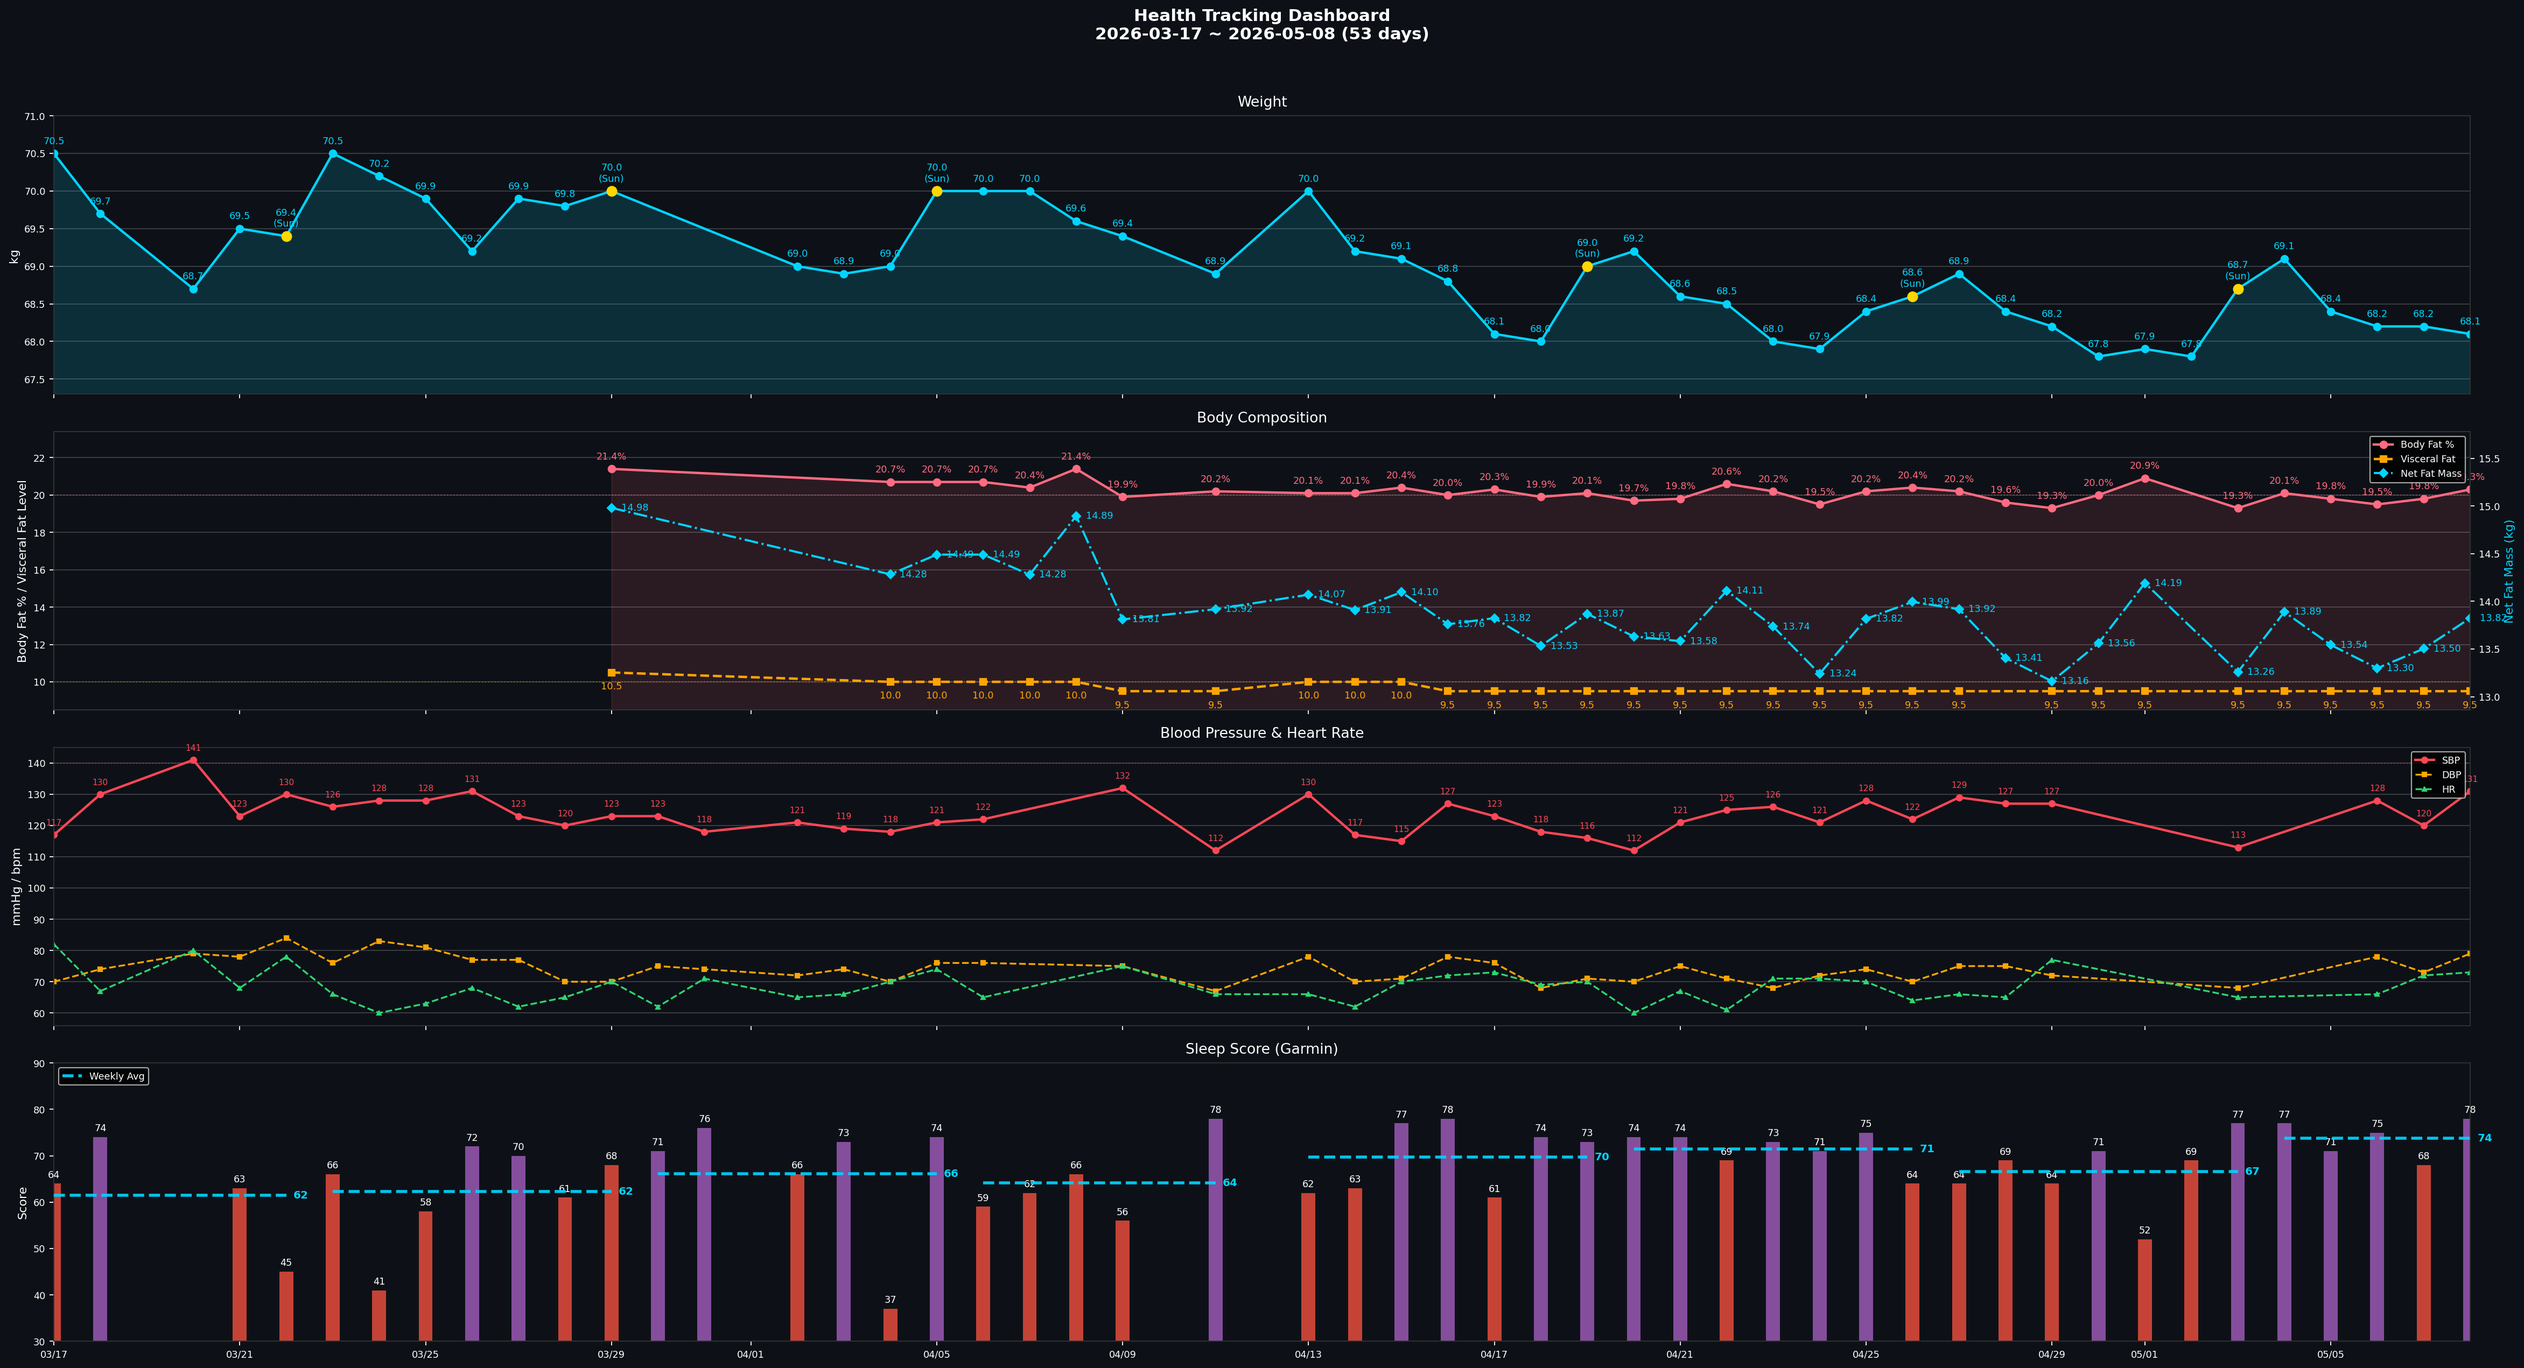
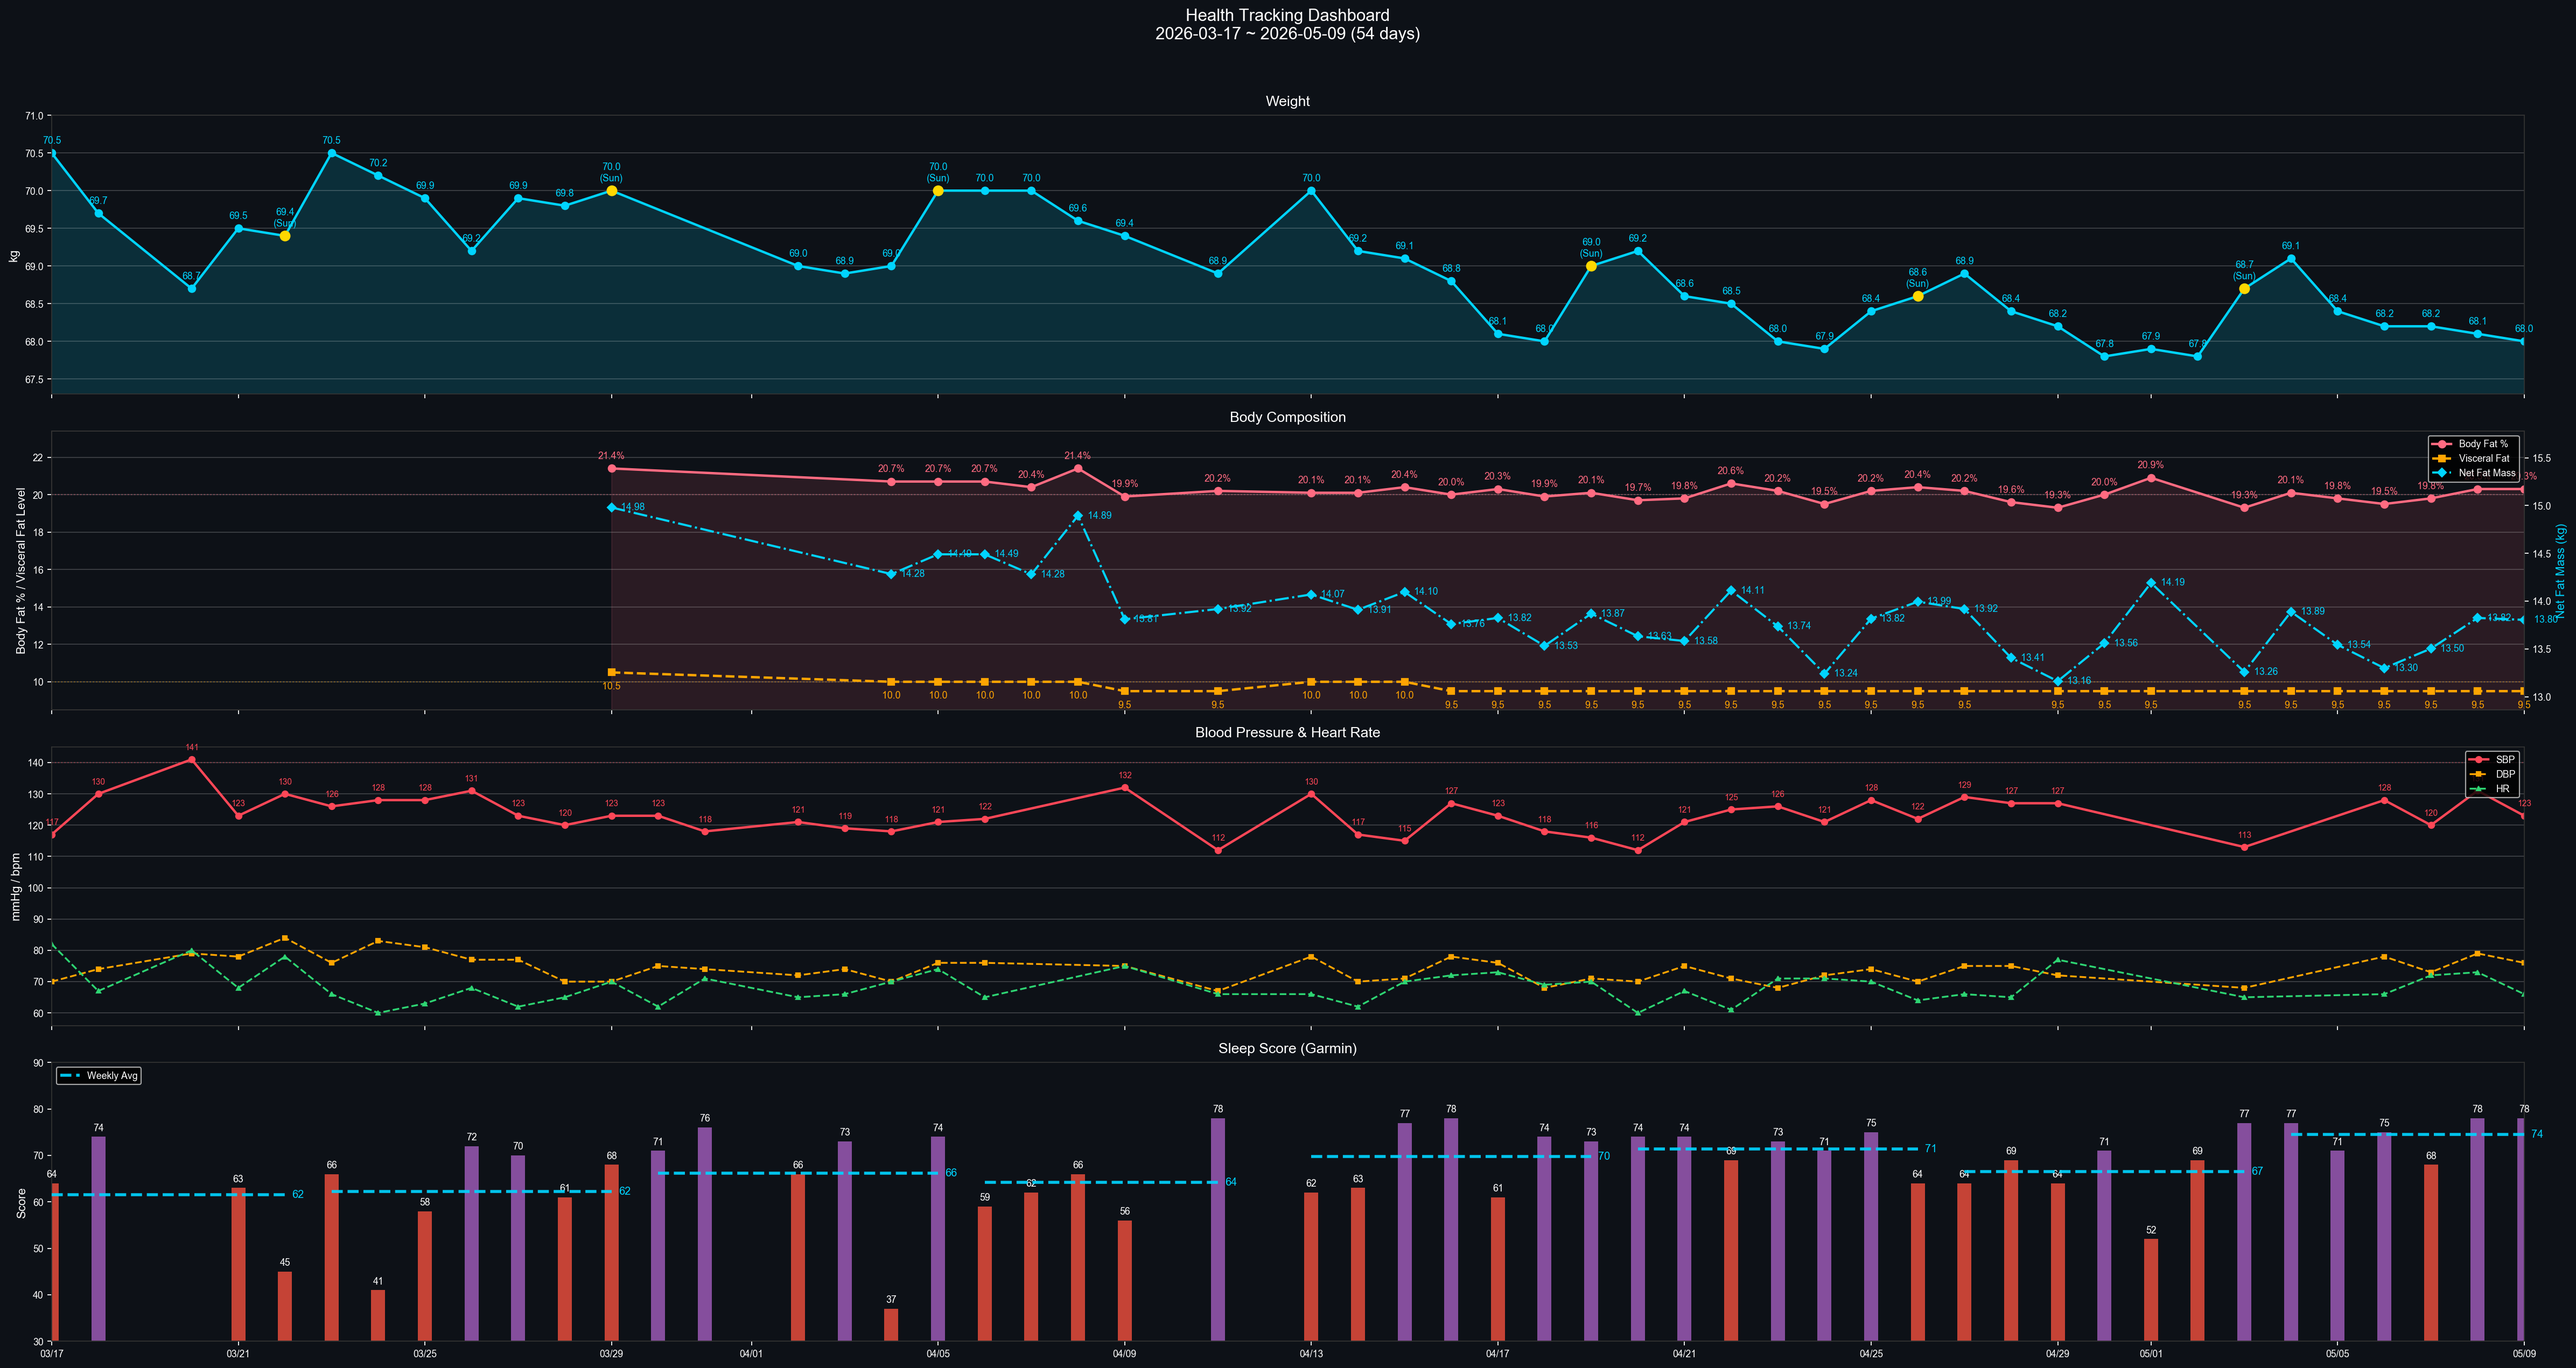
daily health log 2026-05-09

diff --git a/data.js b/data.js
@@ -9,19 +9,19 @@ window.HC_DATA = {
     lede:    { en: "Sleep, BP, lipids, uric acid — one shared metabolic root. Lifestyle stacks first; medication only after lifestyle plateaus.",
                zh: "睡眠、血壓、血脂、尿酸——共享同一個代謝根源。生活方式介入優先，等到效果平台期再考慮藥物。" },
     progressLbl: { en: "Weight progress · 70 → 65 kg", zh: "體重進度 · 70 → 65 公斤" },
-    progressMeta: { en: "Day 53 · 67.8 kg · Sat official (5/2)", zh: "第 53 天 · 67.8 公斤 · 週六正式（5/2）" },
-    startDate: { en: "Start date · Mar 17, 2026 · Last sync 5/8", zh: "起始日期 · 2026 年 3 月 17 日 · 最後同步 5/8" },
+    progressMeta: { en: "Day 54 · 68.0 kg · Sat official (5/9)", zh: "第 54 天 · 68.0 公斤 · 週六正式（5/9）" },
+    startDate: { en: "Start date · Mar 17, 2026 · Last sync 5/9", zh: "起始日期 · 2026 年 3 月 17 日 · 最後同步 5/9" },
     startWeight: 70,
     targetWeight: 65,
-    currentWeight: 67.8,
-    currentWeightDate: "5/2 Sat official",
+    currentWeight: 68.0,
+    currentWeightDate: "5/9 Sat official",
   },
 
   markers: [
     {
       sys: "heart", name: { en: "Blood Pressure", zh: "血壓" },
       val: "124/72", unit: "mmHg",
-      delta: { en: "W18 weekly avg (4 days) · target met (<130) · last 131/79 (5/8)", zh: "W18 週均（4 天）· 已達標 (<130) · 最新 131/79 (5/8)" },
+      delta: { en: "W18 weekly avg (4 days) · target met (<130) · last 123/76 (5/9)", zh: "W18 週均（4 天）· 已達標 (<130) · 最新 123/76 (5/9)" },
       cadence: { en: "Daily · weekly avg", zh: "每日 · 週均" },
       status: "ok",
     },
@@ -34,8 +34,8 @@ window.HC_DATA = {
     },
     {
       sys: "weight", name: { en: "Weight", zh: "體重" },
-      val: "67.8", unit: "kg",
-      delta: { en: "5/2 Sat official · auto-synced", zh: "5/2 週六正式 · 自動同步" },
+      val: "68.0", unit: "kg",
+      delta: { en: "5/9 Sat official · auto-synced", zh: "5/9 週六正式 · 自動同步" },
       cadence: { en: "Daily · Sat official", zh: "每日 · 週六正式" },
       status: "ok",
     },
@@ -820,14 +820,14 @@ window.HC_DATA = {
   tracker: {
     // [SBP, DBP] — gaps filled with prior reading
     bp: [
-      [128,74], [122,70], [129,75], [127,75], [127,72], [127,72], [127,72], [127,72], [113,68], [113,68], [113,68], [128,78], [120,73], [131,79],
+      [122,70], [129,75], [127,75], [127,72], [127,72], [127,72], [127,72], [113,68], [113,68], [113,68], [128,78], [120,73], [131,79], [123,76],
     ],
     // 4/21–5/4 daily weight (kg)
-    weight: [68.4, 68.6, 68.9, 68.4, 68.2, 67.8, 67.9, 67.8, 68.7, 69.1, 68.4, 68.2, 68.2, 68.1],
+    weight: [68.6, 68.9, 68.4, 68.2, 67.8, 67.9, 67.8, 68.7, 69.1, 68.4, 68.2, 68.2, 68.1, 68],
     // Garmin Sleep Score
-    sleep:  [75, 64, 64, 69, 64, 71, 52, 69, 77, 77, 71, 75, 68, 78],
+    sleep:  [64, 64, 69, 64, 71, 52, 69, 77, 77, 71, 75, 68, 78, 78],
     // Body Battery waking
-    bb:     [66, 60, 57, 57, 58, 51, 47, 41, 54, 49, 47, 56, 47, 37],
+    bb:     [60, 57, 57, 58, 51, 47, 41, 54, 49, 47, 56, 47, 37, 48],
   },
 
   // ===== Running — started 2026-04-26 =====

diff --git a/reviews/daily/2026-05-09.md b/reviews/daily/2026-05-09.md
@@ -1,0 +1,88 @@
+# 晨間健康紀錄 — 2026-05-09
+
+*3 分鐘。起床後立即完成。記錄，不分析。*
+
+---
+
+## 體重
+
+**今日：68.0 kg**
+**體脂率：20.3 %**
+**內臟脂肪等級：9.5**
+
+*每週六早晨為正式紀錄（排尿後、進食前；連 5 個工作日後、週末大餐前的真實低點）。其他日可選填。*
+
+---
+
+## 血壓（晨間）
+
+*起床後 1 小時內，上完廁所、進食前。坐下安靜 5 分鐘，連量兩次取第二次。*
+
+| 次數 | 收縮壓 | 舒張壓 | 心率 |
+|------|--------|--------|------|
+| 第一次 | — | — | — |
+| 第二次 | 123 | 76 | 66 |
+
+---
+
+## 睡眠狀態
+
+**實際就寢：** 22:09
+**實際起床：** 04:49
+**總時長：** 6h 40m（深眠 104 分｜REM 88 分）
+**中途醒來：** 無（0 次）
+**Garmin Sleep Score：** 78 / 100
+**Garmin Body Battery 起床值：** 48
+**主觀恢復感：** 3 / 5（1=極度疲憊, 5=精力充沛）
+
+**Garmin RHR：** 60 bpm｜**日均壓力：** 23｜**昨日步數：** 59
+
+### SpO2 / OSA 監測
+
+- 睡眠平均 96.0%｜瞬間最低 85%
+- T90 ≈ **7.8%**（< 90% 累計 31 分 / 400 分）
+- Desat events: 4 段
+
+| 時段 | 長度 | 最低 | 平均 | 分級 |
+|------|------|------|------|------|
+| 00:25–00:30 | 6 分 | 85% | 87% | 🟡 紅旗 |
+| 03:44–03:44 | 1 分 | 89% | 89% | 🟢 邊緣 |
+| 03:47–03:54 | 8 分 | 87% | 87% | 🟡 紅旗 |
+| 04:25–04:40 | **16 分** | 86% | 87% | 🔴 重度累積缺氧（>15 分） |
+
+**體位備註：** 04:25 那段 16 分鐘 desat 為準備起床時從側睡翻成仰睡所致 — 仰睡舌根後墜會加重 OSA，屬體位性誘發，非自然睡眠時段的代表性事件。
+
+圖表：`reviews/daily/spo2/spo2_desat_2026-05-09.png`
+
+*Sleep Score < 65 或 Body Battery < 50 連續三天 → 重新檢視睡眠修復方案。*
+
+---
+
+## 昨日回顧
+
+**實際飲水量：** 2.5 L（目標 ≥ 2.5L；高尿酸最佳 2.8–3.0L；17:00 前完成 60-70%）
+
+---
+
+## 身體信號
+
+*任何張力、疼痛、疲勞、異常 — 或「清」。記位置、性質、強度。*
+
+| 部位 | 性質 | 強度 (0-10) |
+|------|------|-------------|
+| 清 | — | — |
+
+---
+
+## 今日計畫速記
+
+- [ ] 飲水目標：2.5 L（建議 2.5–3.0L，17:00 前完成主要量）
+- [ ] 補充品：洛神花茶 ×2 杯 + 魚油 ×2 + Vit D3K2 3000 IU + 酸櫻桃 500 mg + 鎂 400 mg + L-Citrulline 2 g + Psyllium husk 5 g ×2（鎂睡前 1-2 hr；D3K2 / Citrulline 晨間隨脂肪餐；Psyllium 午/晚餐前 30 min）
+- [ ] 運動：依本週計畫
+- [ ] 活動度/伸展：依本週計畫
+
+---
+
+💡 PT 建議：Sleep Score 78、BP 123/76、身體信號清、體重穩定 68.0 kg — 整體恢復尚可，可按計畫執行。SpO2 出現一段 16 分鐘 desat 但確認為起床前翻仰睡所致（體位性誘發），非自然睡眠時段事件，今晚續用側睡優先即可；明後晚仍密切追蹤是否有自然睡眠中 ≥15 分鐘 event 或 T90 > 10%，連續 3 晚才升級 PSG 預約優先級。
+
+*Filed: reviews/daily/2026-05-09.md*

diff --git a/reviews/weekly/2026-W19.md b/reviews/weekly/2026-W19.md
@@ -31,11 +31,11 @@
 
 |  | 一 | 二 | 三 | 四 | 五 | 六 | 日 |
 |--|----|----|----|----|----|----|-----|
-| 體重 (kg) | 69.1 | 68.4 | 68.2 | 68.2 | 68.1 | | |
-| 體脂率 (%) | 20.1 | 19.8 | 19.5 | 19.8 | 20.3 | | |
-| 內臟脂肪 | 9.5 | 9.5 | 9.5 | 9.5 | 9.5 | | |
+| 體重 (kg) | 69.1 | 68.4 | 68.2 | 68.2 | 68.1 | 68.0 | |
+| 體脂率 (%) | 20.1 | 19.8 | 19.5 | 19.8 | 20.3 | 20.3 | |
+| 內臟脂肪 | 9.5 | 9.5 | 9.5 | 9.5 | 9.5 | 9.5 | |
 
-**本週正式讀數（週六早晨）：** 待 2026-05-09
+**本週正式讀數（週六早晨）：** 68.0 kg / 20.3% / 9.5（2026-05-09）
 **上週正式讀數（週六早晨）：** 待 2026-05-02 補登
 **體重變化：** 待週六
 
@@ -67,7 +67,7 @@
 | 2026-05-06 (三) | 128 | 78 | 66 |
 | 2026-05-07 (四) | 120 | 73 | 72 |
 | 2026-05-08 (五) | 131 | 79 | 73 |
-| 2026-05-09 (六) | | | |
+| 2026-05-09 (六) | 123 | 76 | 66 |
 | 2026-05-10 (日) | | | |
 
 **本週平均：** 待週末 mmHg
@@ -85,7 +85,7 @@
 | 2026-05-06 (三) | 22:28 | 04:55 | 2 次（N/A） | 75 | 56 | 3 |
 | 2026-05-07 (四) | 23:04 | 04:50 | 0 | 68 | 47 | 3 |
 | 2026-05-08 (五) | 21:48 | 04:43 | 0 | 78 | 37 | 2 |
-| 2026-05-09 (六) | | | | | | |
+| 2026-05-09 (六) | 22:09 | 04:49 | 0 | 78 | 48 | 3 |
 | 2026-05-10 (日) | | | | | | |
 
 **Sleep Score 週均：** 待週末
@@ -172,7 +172,8 @@
 | Night 2 | 5/6 | 同上（床頭抬高 + 抱枕） | 待回填 | **4.9%** | **84%** | **4** | T90 9.7→4.9、events 16→4，落入「強烈 POSA」(T90 ≤ 5%) |
 | Night 3 | 5/7 | 同上（床頭抬高 + 抱枕） | 待回填 | **2.9%** | **79%** | **~3** | T90 4.9→2.9 續降至「強烈 POSA」深區；nadir 79% 為瞬間單點低（單段最長僅 3 分），非累積負擔 |
 | Night 4 | 5/8 | 同上（床頭抬高 + 抱枕） | 待回填 | **6.3%** | **87%** | **—** | T90 2.9→6.3 反彈、nadir 79→87 回升；<85% / <80% 歸零；屬「中度 POSA」（5-10%），建議加強介入（身後擋枕或網球療法） |
-| **平均（N1-N4）** | | | | **5.95%** | **84%** | **~10** | **vs baseline T90 18.4% → 平均 5.95%（-67.9%）；落入「中度~強烈 POSA」邊界，加強介入後若 < 5% 升級 SPT 震動裝置** |
+| Night 5 | 5/9 | 同上（床頭抬高 + 抱枕） | 待回填 | **7.8%** | **85%** | **4** | T90 6.3→7.8 續微升；最長 event 16 分（04:25-04:40，但屬準備起床翻仰睡所致 — 體位性誘發、非自然睡眠時段事件）；扣除起床前段，自然睡眠期 nadir 85% / 最長 8 分（03:47-03:54）|
+| **平均（N1-N5）** | | | | **6.32%** | **84%** | **~9** | **vs baseline T90 18.4% → 平均 6.32%（-65.7%）；維持「中度 POSA」區間；起床前翻仰睡仍為 desat 誘發點，可考慮起身前增加側躺再坐起的過渡** |
 
 **判讀準則（依 articles/2026-05-01-osa-positional-therapy-trial.md）：**
 - 平均 T90 ≤ 5% → 強烈 POSA，升級 SPT 震動裝置

diff --git a/reports/daily-garmin/2026-05-09.md b/reports/daily-garmin/2026-05-09.md
@@ -1,0 +1,27 @@
+# Garmin 每日摘要 — 2026-05-09
+
+## 睡眠
+- 就寢：22:09｜起床：04:49
+- 總時長：6h 40m
+- 深眠：104 分｜REM：88 分
+- Sleep Score：78
+- Body Battery 起床值：48
+
+## 靜息心率
+- RHR：60.0 bpm
+
+## 壓力
+- 日均：23
+
+## 步數
+- 總計：59
+
+## SpO2
+- 日均：96.0%
+- 最低：85%
+
+## 飲水
+- 實際：— （Garmin Connect 未紀錄，請於 check-in 手動輸入）
+- 目標：2.00 L
+
+_Source: data/garmin/2026-05-09.json (gitignored)_
